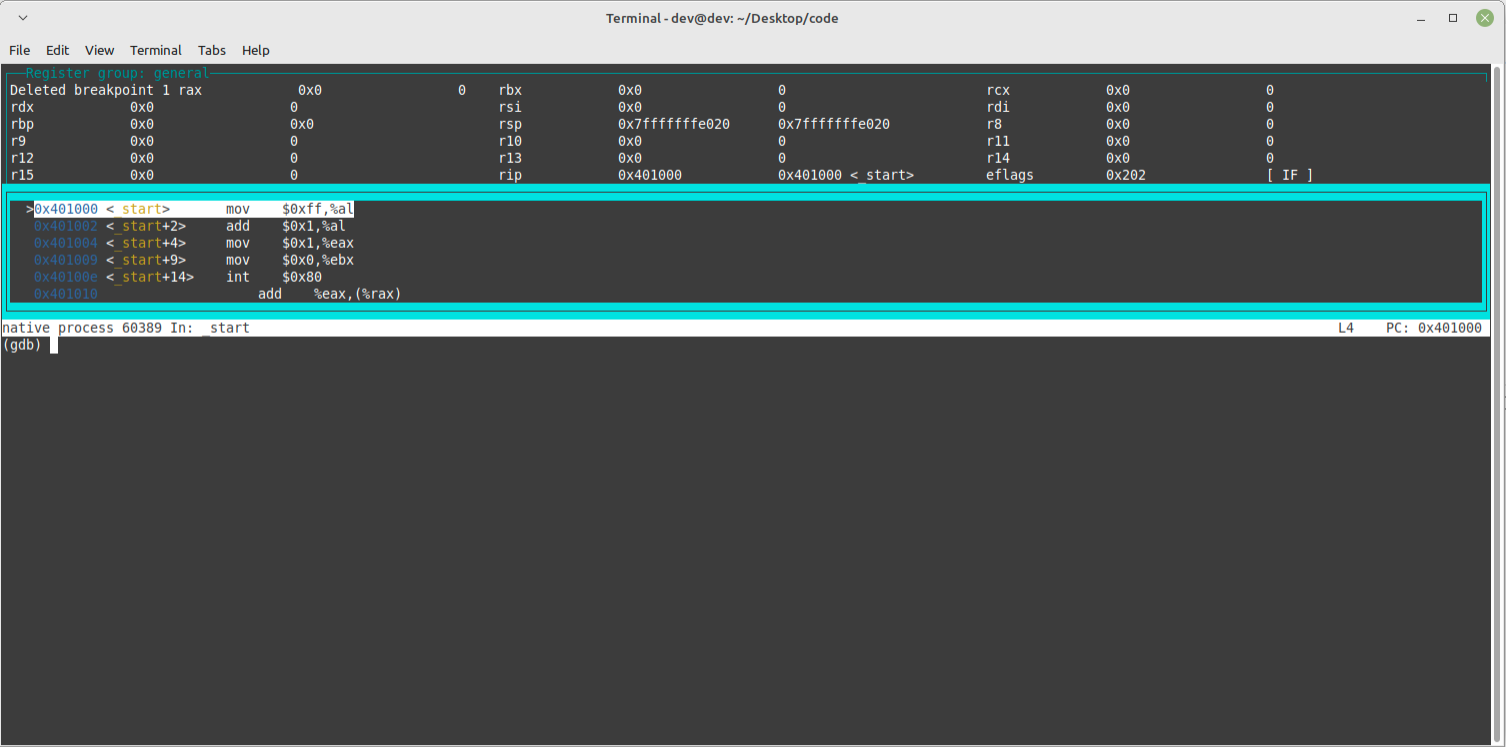
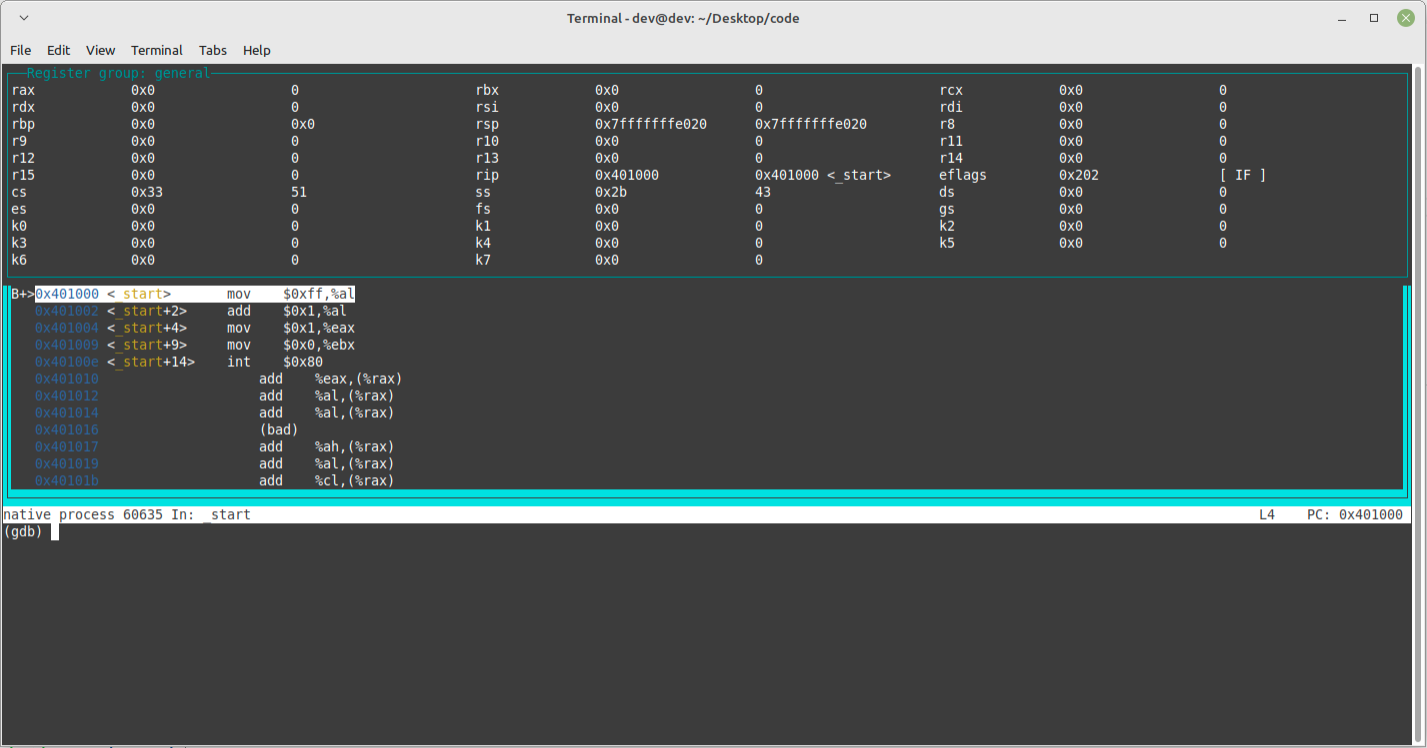
update post

Changed region(s): [[0.0, 0.0616, 1.0, 1.0], [0.4008, 0.0, 0.555, 0.0308], [0.9559, 0.0, 0.9867, 0.0308]]

diff --git a/source/_posts/2022-03-13-cf-and-of-flag.md b/source/_posts/2022-03-13-cf-and-of-flag.md
@@ -53,7 +53,7 @@ gdb ./demo
 
 ![alt](/images/cf-of-2.png)
 
-此时可输入 `layout reg` 来观察各寄存器内的值，我们需要关注的是 `eflags` 的值，如果显示了 `CF` 则表示触发了进位：
+此时可输入 `layout reg` 来观察各寄存器内的值，我们需要关注的是 `eflags` 寄存器，它展示了哪些标志位生效了：
 
 ![alt](/images/cf-of-3.png)
 
@@ -65,6 +65,16 @@ eflags         0x202               [ IF ]
 ```
 
 目前只有一个 `IF` 标志位，它用于表示是否响应中断。
+
+接着，输入 `next` 来执行当前断点所在处的指令，可以看到，执行后 `rax` 寄存器内的值变成了255，
+
+![alt](/images/cf-of-4.png)
+
+再输入一次 `next` 来执行加法运算，此时 `rax` 中的值变为了0，`eflags` 中出现了 `CF` 标志位，说明发生了进位：
+
+![alt](/images/cf-of-5.png)
+
+`rax` 中的值为0也说明了 `al` 寄存器加法运算后产生的进位并不会体现在比它位数更多的寄存器中，否则 `rax` 中的值应该是256。
 
 参考：
 
